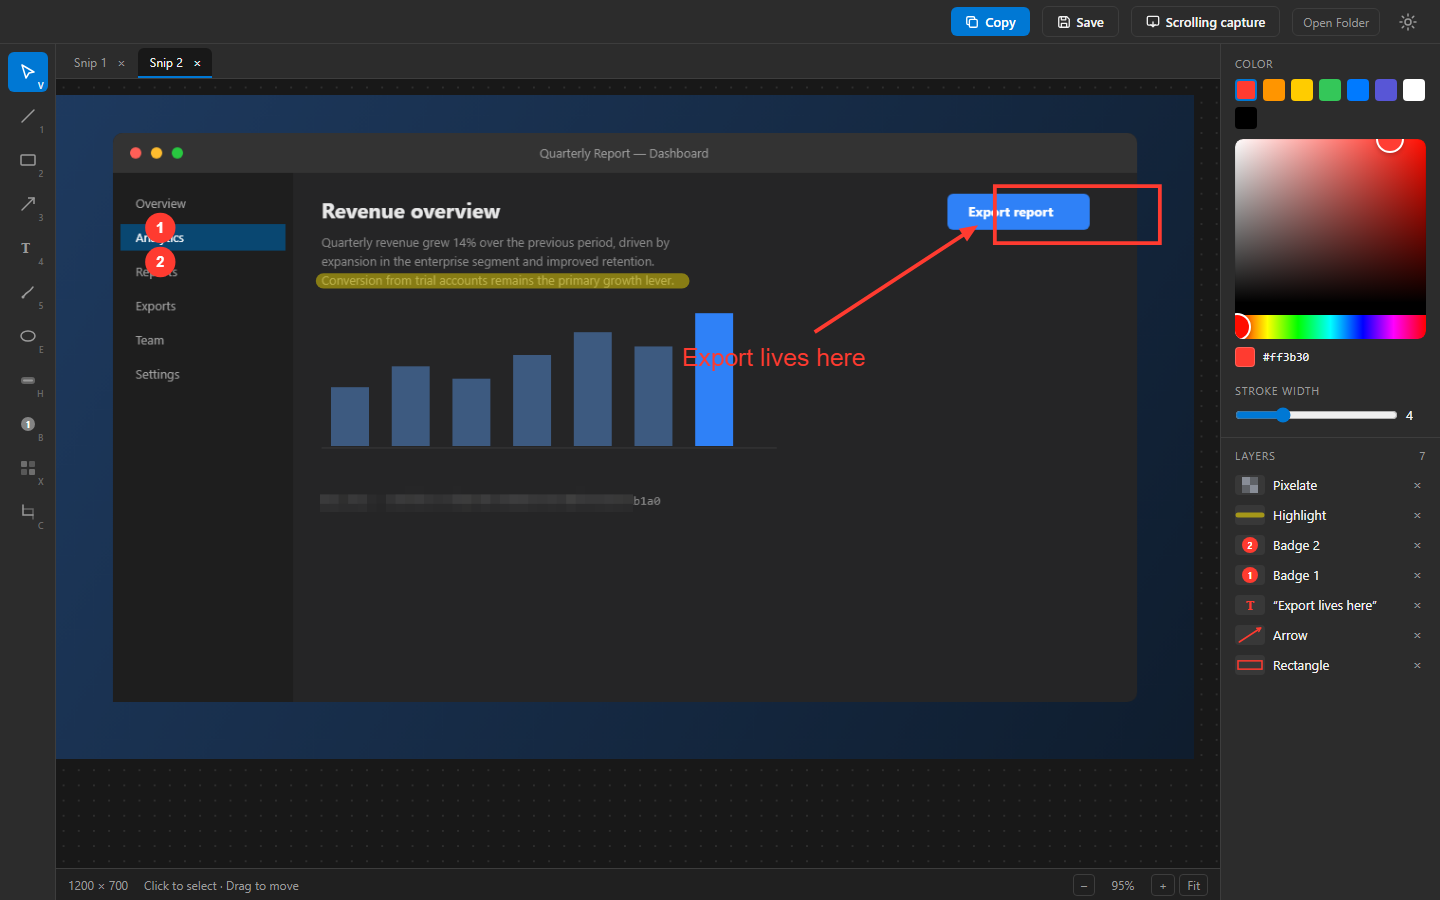
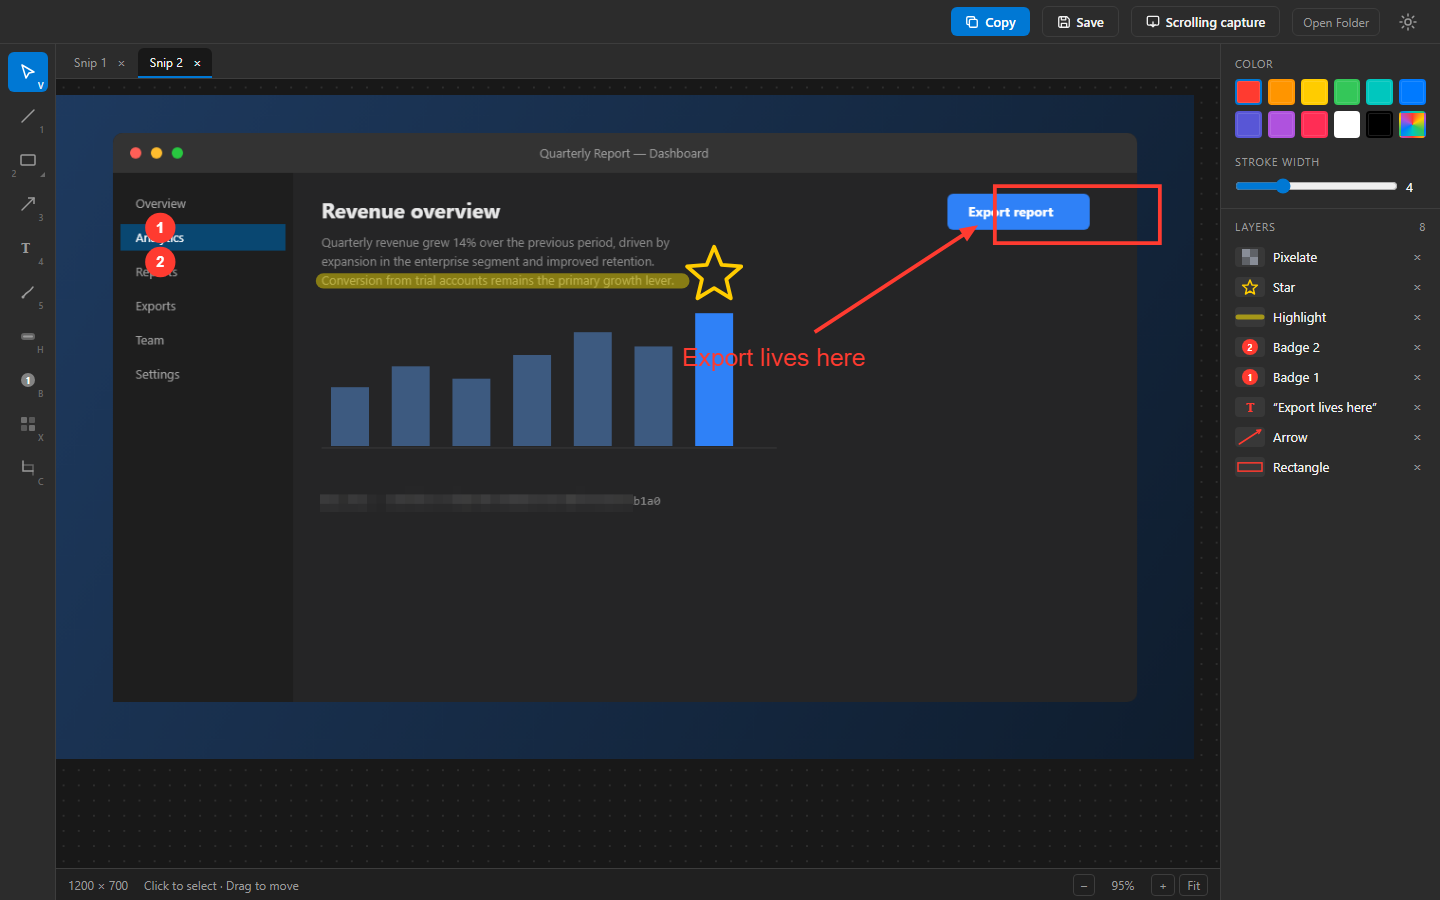
docs: cover shape flyout and color presets in README

diff --git a/src/utils/demoMode.ts b/src/utils/demoMode.ts
@@ -146,6 +146,7 @@ export async function maybeLoadDemo(): Promise<void> {
   s.addAnnotation({ id: nanoid(), type: 'badge', x: 110, y: 140, number: 1, fill: red, radius: 16 });
   s.addAnnotation({ id: nanoid(), type: 'badge', x: 110, y: 176, number: 2, fill: red, radius: 16 });
   s.addAnnotation({ id: nanoid(), type: 'highlight', points: [282, 196, 660, 196], stroke: '#ffe600', strokeWidth: 4 });
+  s.addAnnotation({ id: nanoid(), type: 'shape', shape: 'star', x: 664, y: 160, width: 60, height: 60, stroke: '#ffcc00', strokeWidth: 4 });
   s.addAnnotation({ id: nanoid(), type: 'pixelate', x: 278, y: 412, width: 330, height: 28, pixelSize: 10 });
   s.setSelectedId(null);
 }

diff --git a/README.md b/README.md
@@ -20,7 +20,9 @@ Ordinary copied images don't trigger the editor — snippr checks that the clipb
 
 ## Features
 
-- **Annotation tools** — line, rectangle, ellipse, arrow, freehand pen, highlighter, text, auto-numbered step badges
+- **Annotation tools** — line, rectangle, ellipse, triangle, diamond, star, arrow, freehand pen, highlighter, text, auto-numbered step badges (numbers editable in the properties panel)
+- **Photoshop-style tool flyout** — hold or right-click the shape button to pick its variants; the button remembers your last choice (the corner caret marks grouped tools)
+- **Color presets** — the usual palette one click away; the last swatch unfolds the full picker with a hex input
 - **Scrolling capture** — grab an entire scrollable page as one tall image (see below)
 - **Open existing images** — paste (`Ctrl+V`) or drag files in; with nothing open the image becomes the tab's background, with a document open it lands as a movable **image layer** on top
 - **Pixelate** — drag a region to censor API keys, emails, faces
